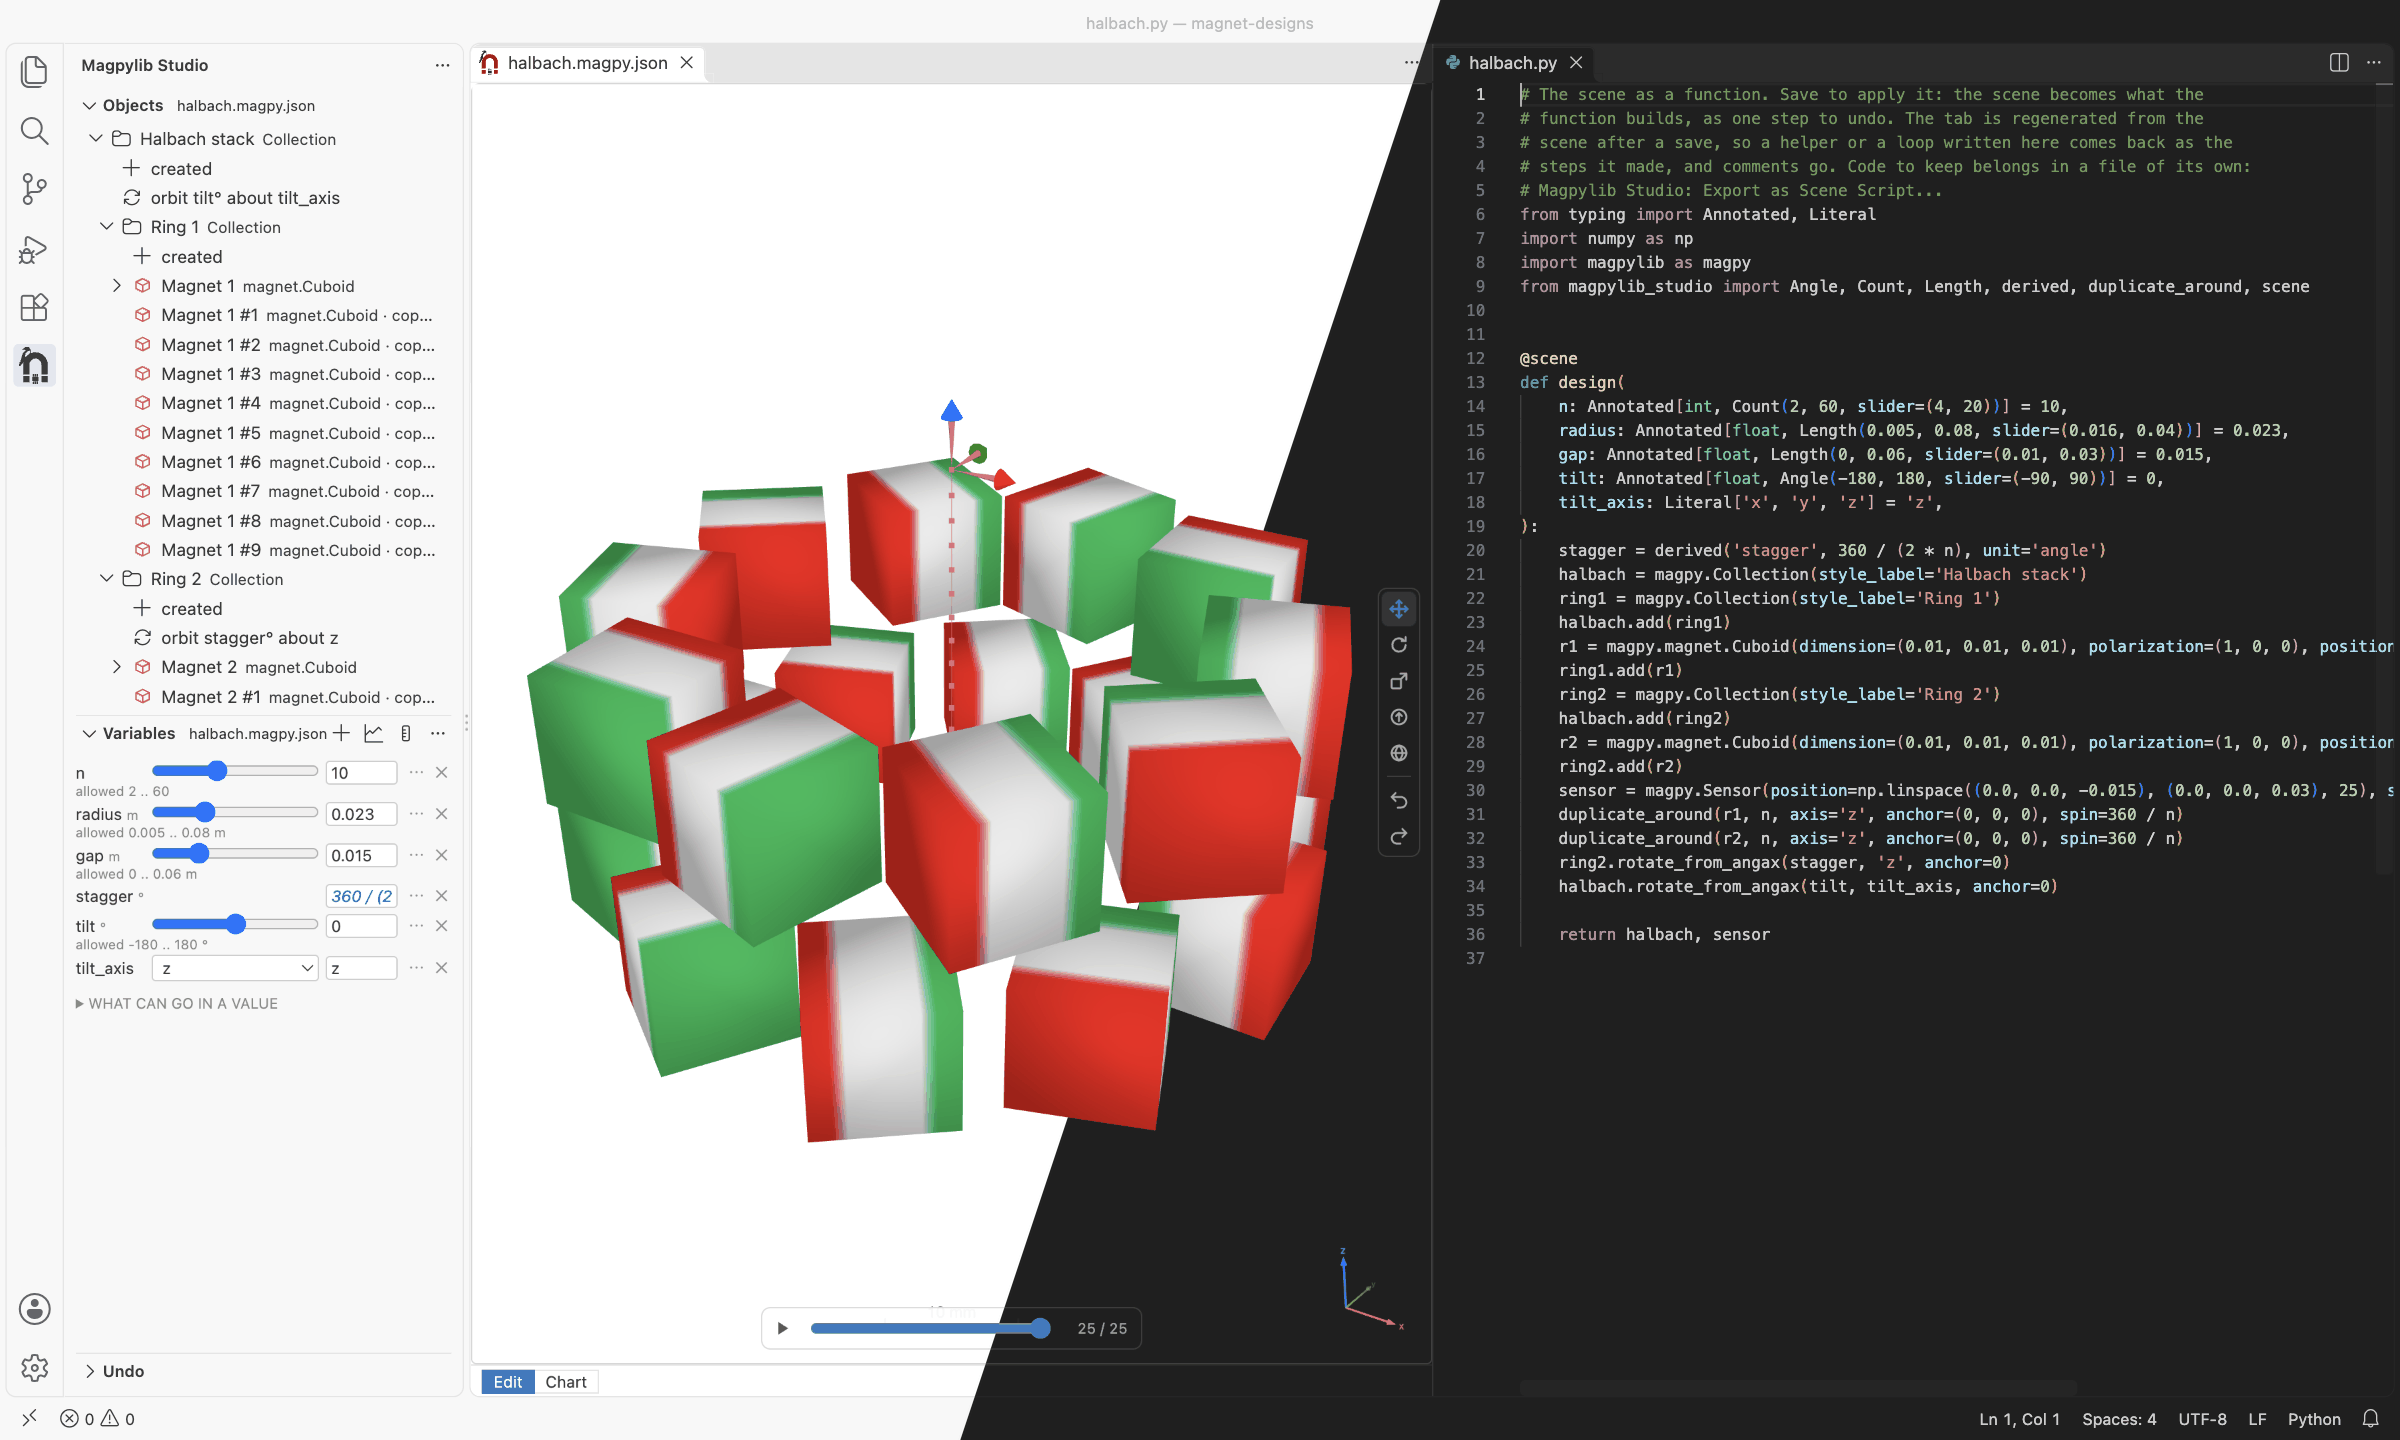
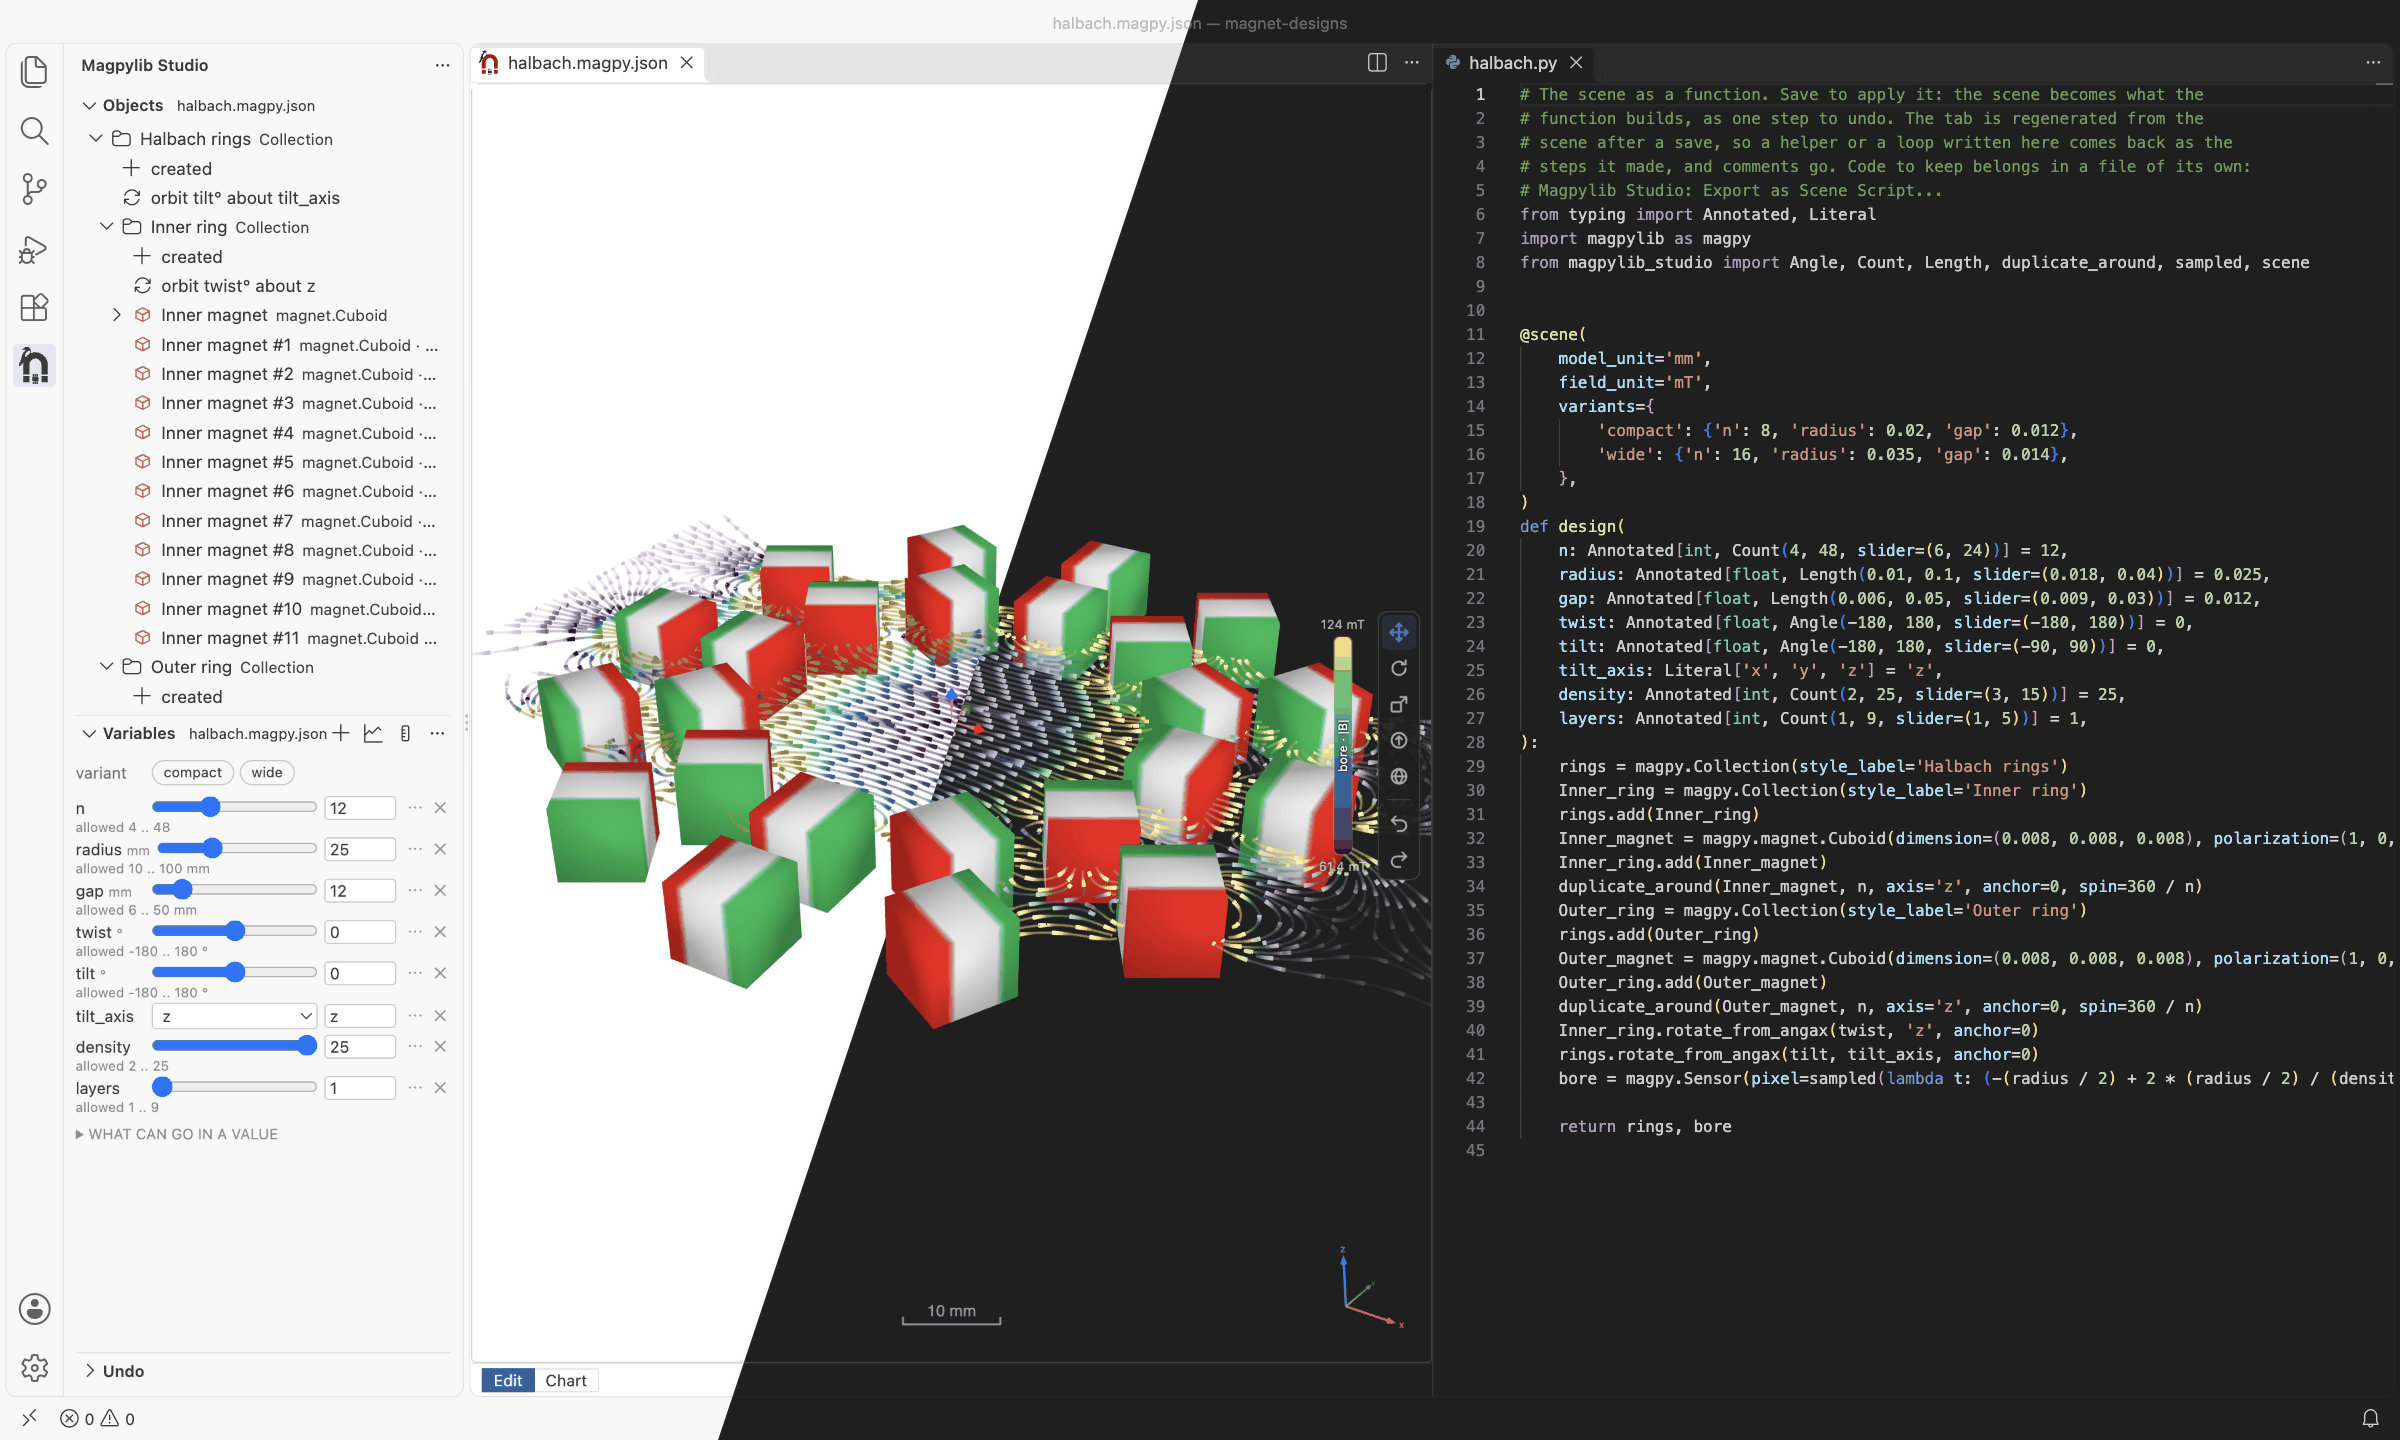
Show the field lines flowing in the README, as a GIF
The picture is now the Halbach rings of examples/marimo_demo.py, its cell
run alone at the most pixels its density allows, the field lines on and the
bore's arrows hidden from the legend. The 3D view's requestAnimationFrame is
handed the time, so the window is taken at 25 even steps through one period
of the flow (1.25 s), in the dark theme and then the light: the GIF loops
without a jump. The cut now goes through the middle of the 3D view.

VS Code is started with --disable-backgrounding-occluded-windows: a window
behind others is hidden to its pages, which then draw no frames. The Python
moves into harness/screenshot.py. The GIF is exempt from the 500 KB hook:
legible at a README's width it is about 1.2 MB.

diff --git a/vscode-extension/harness/screenshot-driver/driver.js b/vscode-extension/harness/screenshot-driver/driver.js
@@ -1,8 +1,8 @@
 /**
- * Sets the window up for `harness/screenshot.mjs`: the Halbach scene in its
- * tab, the studio's side bar without the Inspector, and the script tab beside
- * it. Silent unless SHOT_DIR is set, so it is harmless anywhere else. When the
- * window is ready it writes SHOT_DIR/ready, and the script takes the picture.
+ * Sets the window up for `harness/screenshot.mjs`: the scene in its tab, the
+ * studio's side bar without the Inspector, and the script tab beside it. Silent
+ * unless SHOT_DIR is set, so it is harmless anywhere else. When the window is
+ * ready it writes SHOT_DIR/ready, and the script takes the picture.
  */
 const fs = require("fs");
 const path = require("path");
@@ -18,6 +18,8 @@ const STEPS = [
   // a selection draws handles and hints over the scene
   ["magpylib-studio.inspectorView.removeView"],
   ["magpylib-studio.viewScript"],
+  // the scene in front, so the script tab draws no blinking cursor
+  ["workbench.action.focusFirstEditorGroup"],
   ["notifications.clearAll"],
 ];
 

diff --git a/vscode-extension/harness/screenshot.py b/vscode-extension/harness/screenshot.py
@@ -1,0 +1,113 @@
+"""The Python half of `screenshot.mjs`.
+
+    python harness/screenshot.py scene OUT EXAMPLE
+    python harness/screenshot.py join FRAMES COUNT X Y PNG GIF
+
+``scene`` writes OUT, a ``.magpy.json``: the Halbach design of the marimo
+notebook EXAMPLE, its cell run alone, at the most pixels its ``density`` allows
+and with the field lines on.
+
+``join`` cuts each pair FRAMES/dark-K.png, FRAMES/light-K.png (K from 0 to
+COUNT - 1, one period of the flow) along a diagonal through X, Y (fractions of
+the width and height): light to its left, dark to its right. The first pair
+becomes PNG in 256 colours, and every pair a frame of GIF, smaller, one palette
+for all, looping.
+"""
+
+import ast
+import json
+import pathlib
+import sys
+from typing import Annotated
+
+#: The flow's period, as `scene3d.mjs` runs it: 0.8 pulses a second.
+PERIOD_MS = 1250
+#: The GIF's width; the picture is 2400 wide. A README shows it about 880
+#: wide, twice that on a sharp screen.
+GIF_WIDTH = 1600
+#: How far the cut leans: its foot this fraction of the width left of its top.
+LEAN = 0.2
+
+
+def scene(out, example):
+    import magpylib as magpy
+
+    import magpylib_studio
+
+    # the cell that defines `halbach`, run as a script with what marimo
+    # would hand it
+    cell = next(
+        node
+        for node in ast.parse(example.read_text()).body
+        if isinstance(node, ast.FunctionDef)
+        and any(
+            isinstance(inner, ast.FunctionDef) and inner.name == "halbach"
+            for inner in node.body
+        )
+    )
+    given = {"Annotated": Annotated, "magpy": magpy}
+    names = {
+        arg.arg: given.get(arg.arg) or getattr(magpylib_studio, arg.arg)
+        for arg in cell.args.args
+    }
+    body = [node for node in cell.body if not isinstance(node, ast.Return)]
+    exec(compile(ast.Module(body, []), example, "exec"), names)  # noqa: S102
+    session = names["halbach"].build().session
+    session.set_variable(
+        "density", session.to_dict()["variable_bounds"]["density"]["max"]
+    )
+    session.set_field_lines(True)
+    out.write_text(json.dumps(session.to_dict(), indent=2))
+
+
+def join(frames, count, x, y, png, gif):
+    from PIL import Image, ImageDraw
+
+    def cut(k):
+        dark = Image.open(frames / f"dark-{k}.png").convert("RGB")
+        light = Image.open(frames / f"light-{k}.png").convert("RGB")
+        return Image.composite(light, dark, mask)
+
+    w, h = Image.open(frames / "dark-0.png").size
+    # drawn at four times the size and reduced, so the cut's edge is smooth
+    s = 4
+    top = (x + LEAN * y) * w * s
+    foot = (x - LEAN * (1 - y)) * w * s
+    mask = Image.new("L", (w * s, h * s), 0)
+    ImageDraw.Draw(mask).polygon(
+        [(0, 0), (top, 0), (foot, h * s), (0, h * s)], fill=255
+    )
+    mask = mask.resize((w, h), Image.Resampling.LANCZOS)
+
+    first = cut(0)
+    first.quantize(
+        256, method=Image.Quantize.MEDIANCUT, dither=Image.Dither.FLOYDSTEINBERG
+    ).save(png, optimize=True)
+
+    size = (GIF_WIDTH, round(h * GIF_WIDTH / w))
+    shown = [first.resize(size, Image.Resampling.LANCZOS)]
+    shown += [cut(k).resize(size, Image.Resampling.LANCZOS) for k in range(1, count)]
+    # one palette from three frames side by side, and no dithering: what
+    # stands still is then the same in every frame, and the GIF stores only
+    # what moves
+    sample = Image.new("RGB", (size[0] * 3, size[1]))
+    for i, k in enumerate((0, count // 3, 2 * count // 3)):
+        sample.paste(shown[k], (i * size[0], 0))
+    palette = sample.quantize(256, method=Image.Quantize.MEDIANCUT)
+    indexed = [f.quantize(palette=palette, dither=Image.Dither.NONE) for f in shown]
+    indexed[0].save(
+        gif,
+        save_all=True,
+        append_images=indexed[1:],
+        duration=round(PERIOD_MS / count / 10) * 10,
+        loop=0,
+    )
+
+
+if __name__ == "__main__":
+    command, *args = sys.argv[1:]
+    if command == "scene":
+        scene(pathlib.Path(args[0]), pathlib.Path(args[1]))
+    else:
+        frames, count, x, y, png, gif = args
+        join(pathlib.Path(frames), int(count), float(x), float(y), png, gif)

diff --git a/vscode-extension/README.md b/vscode-extension/README.md
@@ -7,13 +7,14 @@ computed exactly in milliseconds.
 
 <!-- Absolute, not relative. vsce rewrites relative image paths against the
      *repository* root it reads from package.json, and this extension lives in
-     a subfolder of that repo — so `../docs/halbach.png` becomes a 404 on the
+     a subfolder of that repo — so `../docs/halbach.gif` becomes a 404 on the
      Marketplace listing while looking right on GitHub. -->
 
-![The Halbach example in VS Code: the objects and the steps that built them, the variables with their sliders, the 3D view, and the scene as code in the script tab.](https://raw.githubusercontent.com/magpylib/magpylib-studio/main/docs/halbach.png)
+![The Halbach rings of the marimo example in VS Code, half in the light theme and half in the dark: the objects and the steps that built them, the variables with their sliders, the 3D view with the field lines flowing through the bore, and the scene as code in the script tab.](https://raw.githubusercontent.com/magpylib/magpylib-studio/main/docs/halbach.gif)
 
-_The Halbach example: two rings of magnets, each ring one magnet and one
-pattern. Drag `n` and both rings rebuild._
+_The Halbach rings from `examples/marimo_demo.py`: two rings of twelve magnets,
+each ring one magnet and one pattern, and the field's lines flowing through the
+bore. Drag `n` and both rings rebuild._
 
 ## Get started
 

diff --git a/CONTRIBUTING.md b/CONTRIBUTING.md
@@ -103,11 +103,12 @@ three minutes, and leaves its profiles in a `mwc-…` folder in the system temp
 folder.
 
 **The README's screenshot**, after a change that shows in it:
-`npm run screenshot` (macOS, after `npm run compile`) opens the Halbach example
-in a VS Code of its own, takes it in the dark theme and then the light, and
-writes the two cut along a diagonal to `docs/halbach.png`, which both READMEs
-show. VS Code renders its own window, so it needs no screen-recording
-permission; it takes about a minute.
+`npm run screenshot` (macOS, after `npm run compile`) opens the Halbach rings of
+`examples/marimo_demo.py` in a VS Code of its own, with their field lines, and
+takes one period of the lines' flow in the dark theme and then the light. It
+writes the two cut along a diagonal: `docs/halbach.gif`, which both READMEs
+show, and its first frame as `docs/halbach.png`. VS Code renders its own window,
+so it needs no screen-recording permission; it takes about a minute.
 
 **By hand, on a slow machine**, after a change to what a drag or a slider does:
 `npm run slow-machine -- examples/marimo_demo.py` (the demo by default; `--edit`

diff --git a/README.md b/README.md
@@ -5,10 +5,11 @@ designs visually — in VS Code, in a notebook, or in code. Name the numbers tha
 matter, drag a slider, and the whole design follows, with the field computed
 exactly in milliseconds.
 
-![The Halbach example in VS Code: the objects and the steps that built them, the variables with their sliders, the 3D view and the script tab.](https://raw.githubusercontent.com/magpylib/magpylib-studio/main/docs/halbach.png)
+![The Halbach rings of the marimo example in VS Code, half in the light theme and half in the dark: the objects and the steps that built them, the variables with their sliders, the 3D view with the field lines flowing through the bore, and the scene as code in the script tab.](https://raw.githubusercontent.com/magpylib/magpylib-studio/main/docs/halbach.gif)
 
-_The Halbach example: two rings of ten magnets, each ring one magnet and one
-pattern. Drag `n` and both rings rebuild._
+_The Halbach rings from `examples/marimo_demo.py`: two rings of twelve magnets,
+each ring one magnet and one pattern, and the field's lines flowing through the
+bore. Drag `n` and both rings rebuild._
 
 ## What you can do
 
